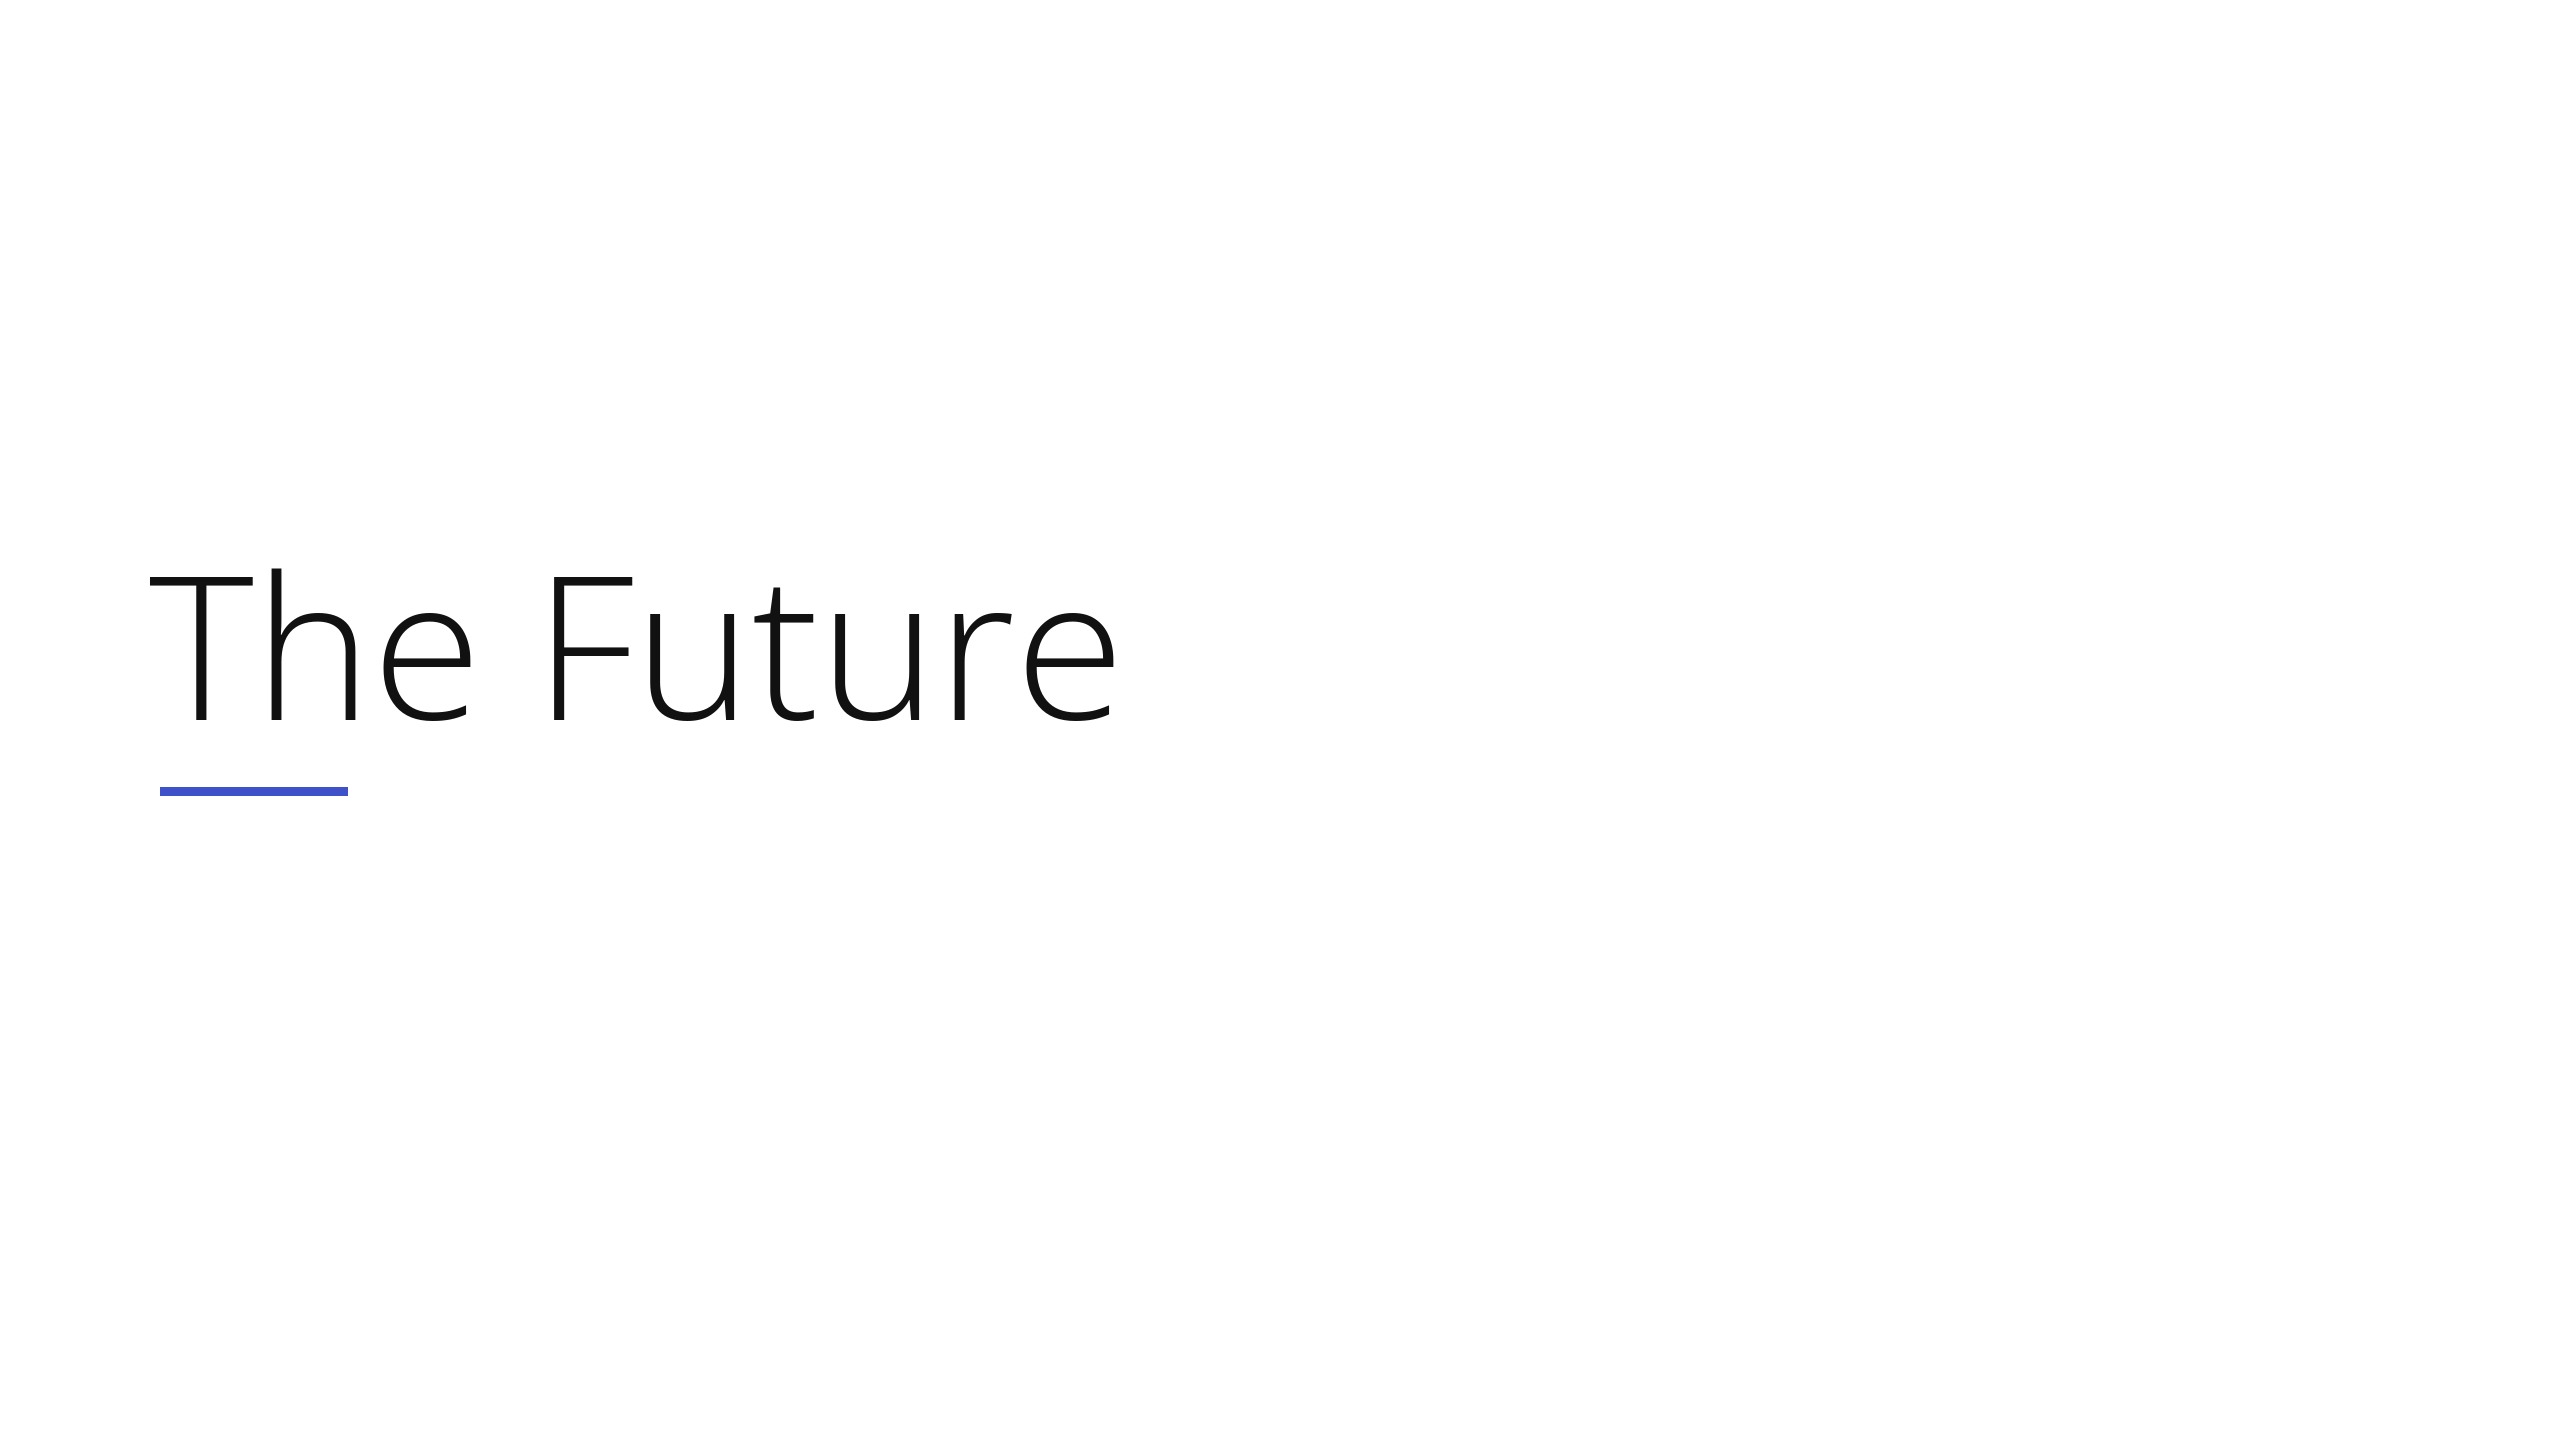
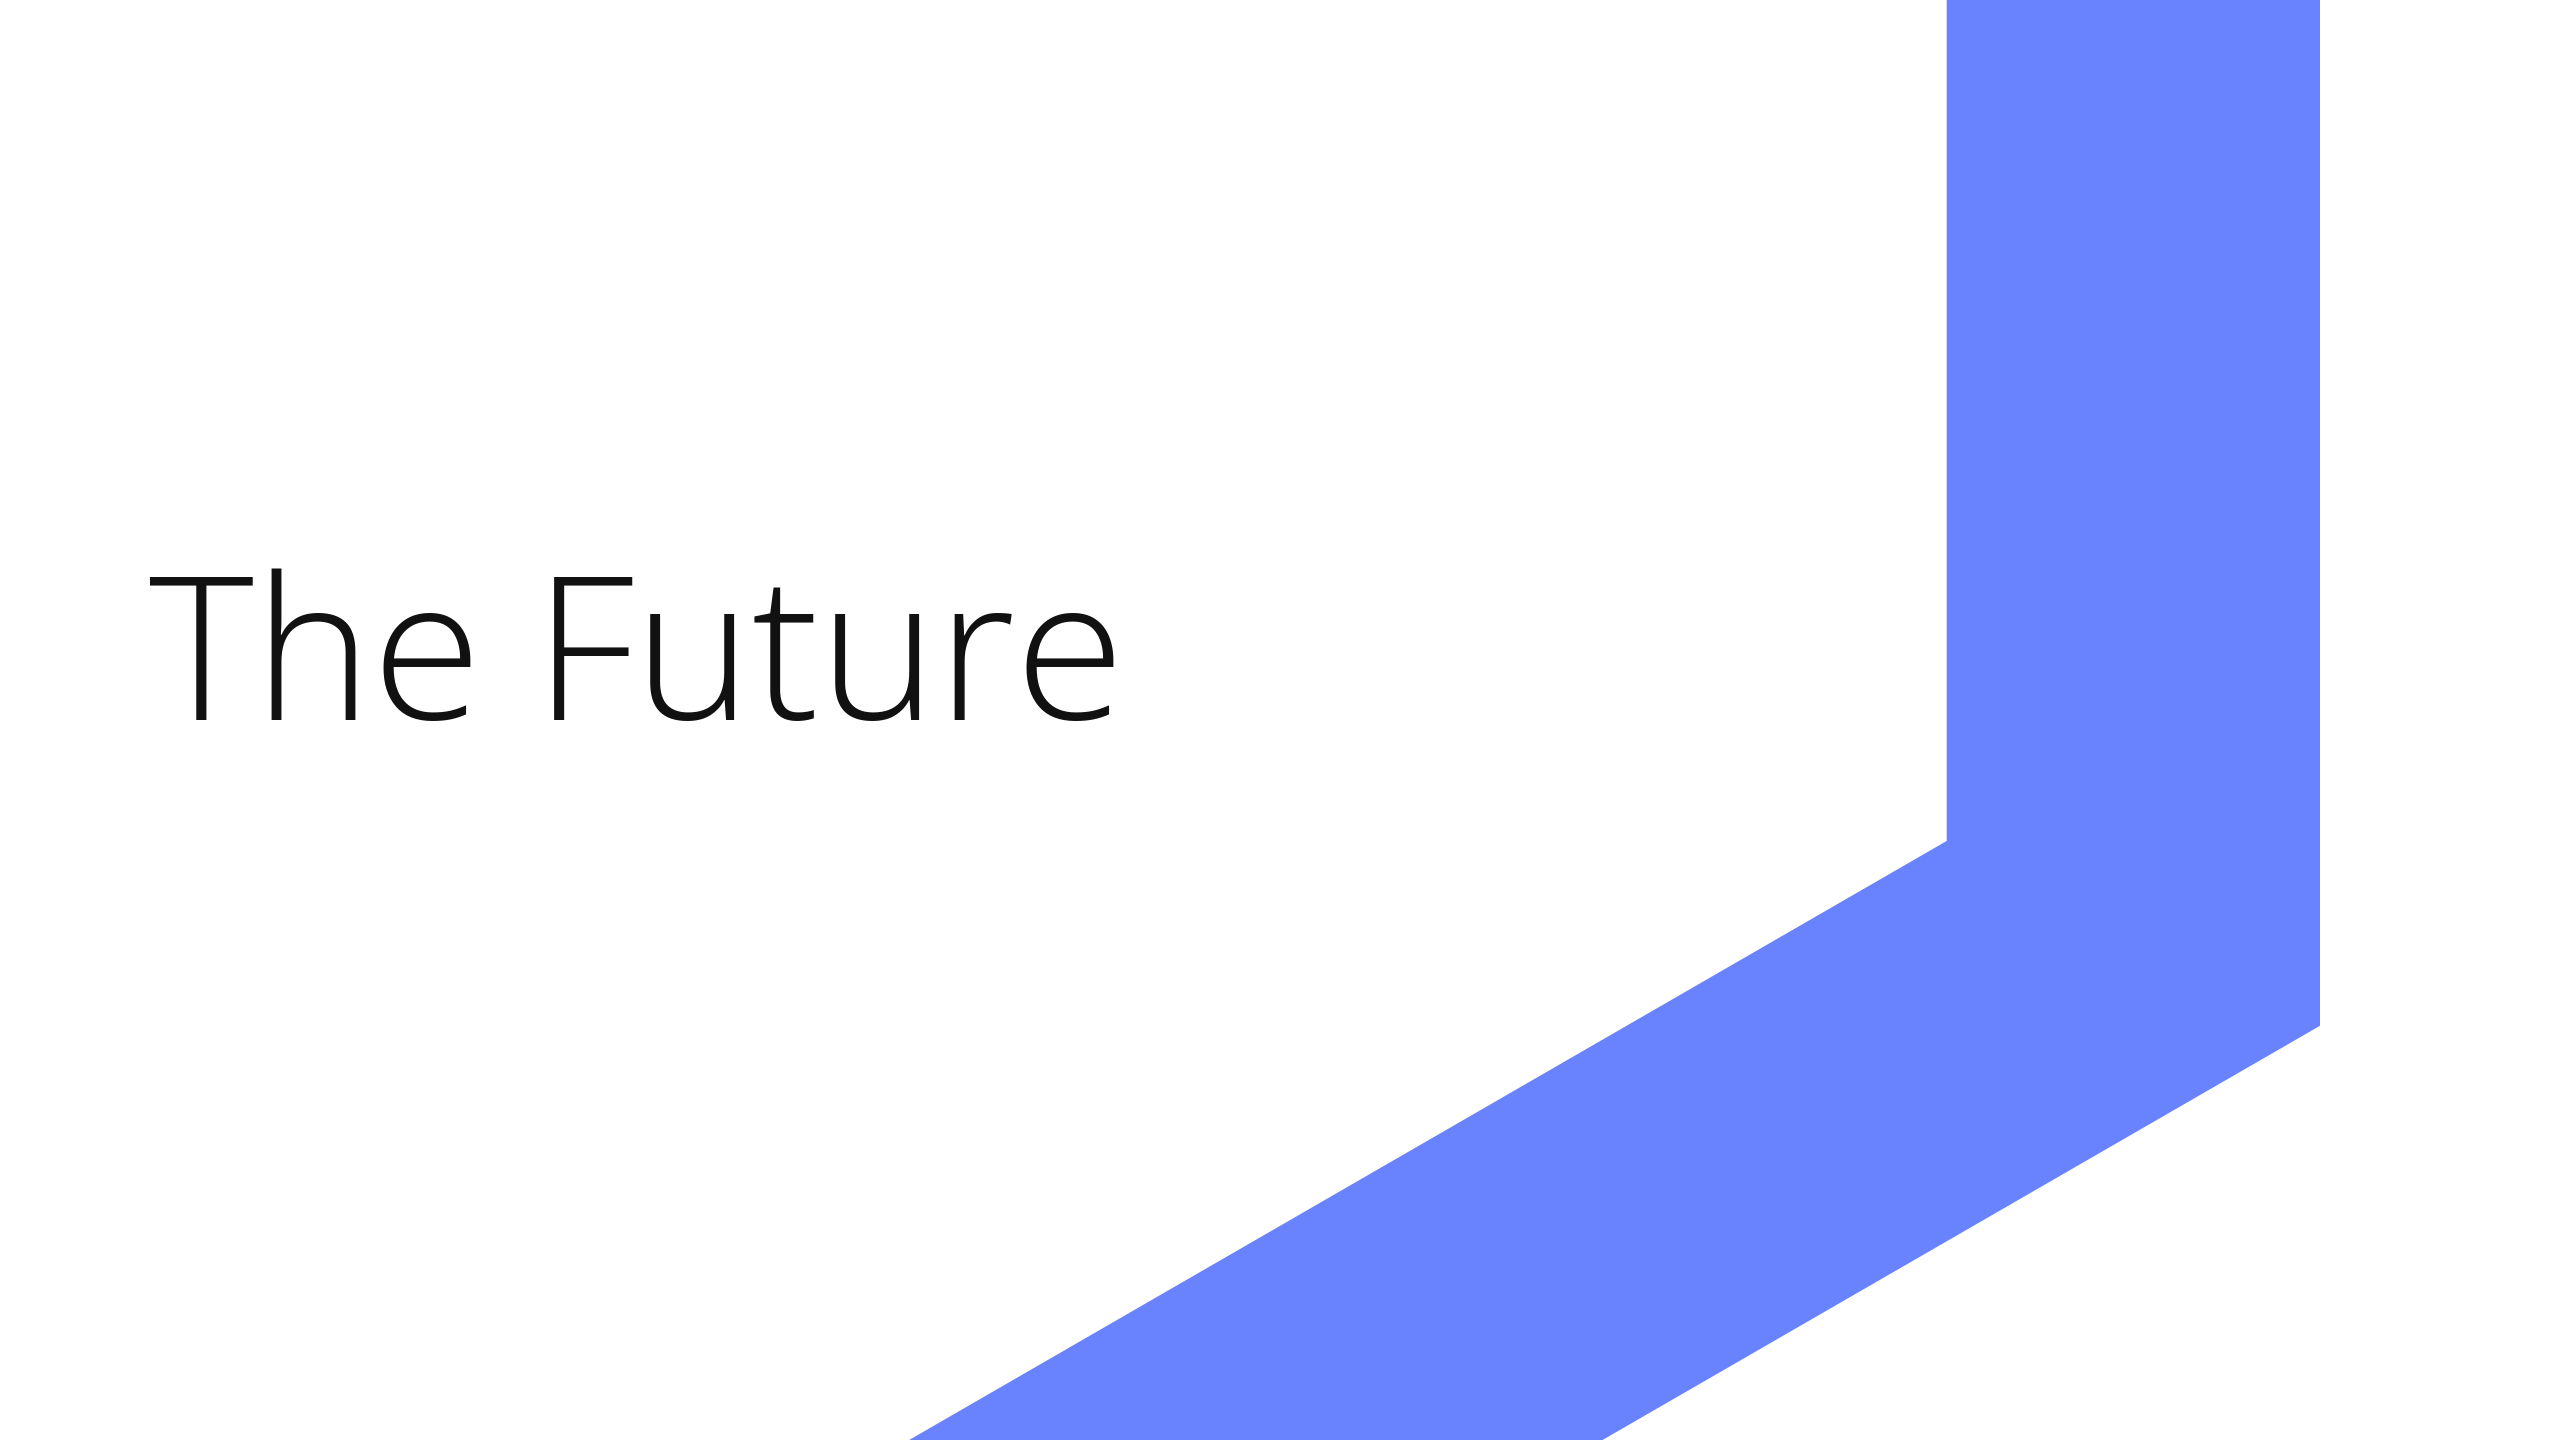
Section openers: the corner of a huge hexagon replaces the accent bar
Slides 4, 11, 15 and 21 now carry a close-up of the lower-right corner of a
hexagon in the Valkey mark's blue (#6983FF): a 30-degree limb rising from
below the slide into a vertical limb that leaves off the top, corner at
(1600, 700) of 1920x1080, vertical 280 px wide, diagonal 260 px. The limbs
differ on purpose: at equal widths the eye reads the slanted band as the
heavier one (Rain compared 280/280, 280/260 and 280/250 and chose 260). One
mitered polygon rasterised through cairosvg, so the edges are antialiased
like the figures. The small 140x6 accent bar is gone; the title clears the
mark by 130+ px on the longest title.

Cross-ownership: build_deck.py (Rimuru's) gets hex_corner() and the section
branch loses its rectangle. The engine-digest change re-rendered every
slide; PNGs whose only change was cross-host glyph antialiasing were
restored from HEAD, as before.

Changed region(s): [[0.3438, 0.0, 0.9062, 1.0], [0.0625, 0.5312, 0.125, 0.5625]]

diff --git a/build_deck.py b/build_deck.py
@@ -128,6 +128,32 @@ def rasterise(svg_path, width):
     return Image.open(io.BytesIO(cairosvg.svg2png(bytestring=svg.encode(), output_width=width))).convert('RGBA')
 
 
+LOGO_BLUE = '#6983FF'                      # the Valkey mark's blue (valkey.io/img/valkey-horizontal.svg), not the deck accent
+
+
+def hex_corner(im, cx=1600, cy=700, w_diag=260, w_vert=280, color=LOGO_BLUE):
+    """The section openers' mark: the lower-right corner of a hexagon so large that only the corner is on the
+    slide, an echo of the logo's outline. A 30-degree limb arrives from below the slide, a vertical limb leaves
+    off the top; one mitered polygon, so the limbs may differ in width (the diagonal is drawn 7% narrower than
+    the vertical: at equal widths the eye reads the slanted band as the heavier one). Design px (1920x1080)."""
+    import math, cairosvg
+    u1 = (math.cos(math.radians(30)), -math.sin(math.radians(30)))      # along the diagonal, towards the corner
+    n1 = (math.sin(math.radians(30)), math.cos(math.radians(30)))       # the diagonal's outward normal (down-right)
+
+    def edge(side):                                                       # +1 outer edge, -1 inner edge
+        px, py = cx + side * n1[0] * w_diag / 2, cy + side * n1[1] * w_diag / 2    # a point on the diagonal's edge
+        x = cx + side * w_vert / 2                                                   # the vertical's edge
+        miter = (x, py + (x - px) / u1[0] * u1[1])
+        far = (px - u1[0] * 1500, py - u1[1] * 1500)                                 # well below the slide
+        return far, miter
+    (fo, mo), (fi, mi) = edge(+1), edge(-1)
+    pts = [fo, mo, (mo[0], -300), (mi[0], -300), mi, fi]
+    svg = (f'<svg xmlns="http://www.w3.org/2000/svg" width="{W}" height="{H}" viewBox="0 0 1920 1080">'
+           f'<polygon points="{" ".join(f"{x:.1f},{y:.1f}" for x, y in pts)}" fill="{color}"/></svg>')
+    ov = Image.open(io.BytesIO(cairosvg.svg2png(bytestring=svg.encode(), output_width=W))).convert('RGBA')
+    im.paste(ov, (0, 0), ov)
+
+
 def ink_bbox(im, pad=12):
     """Bounding box of the ink (anything darker than near-white), plus a small margin; None for a blank image."""
     flat = Image.new('RGB', im.size, (255, 255, 255)); flat.paste(im, mask=im.split()[3])
@@ -201,9 +227,9 @@ def render(slide):
         d.line([(P(960), P(420)), (P(960), P(900))], fill=RULE, width=P(2))
         text(d, (120, 1010), slide['footnote'], font('Regular', 26), MUTED, 'ls')
     elif k == 'section':
+        hex_corner(im)                                          # the mark first, so the title paints over it if they ever meet
         if slide['eyebrow']: text(d, (120, 300), slide['eyebrow'].upper(), font('SemiBold', 22), MUTED, tracking=3)
         text(d, (112, 540), slide['word'], font('Light', 150), INK, 'ls')
-        d.rectangle([P(120), P(590), P(120 + 140), P(590 + 6)], fill=ACCENT)
         if slide['claim']: text(d, (120, 650), slide['claim'], font('SemiBold', 44), ACCENT)
         if slide['detail']: text(d, (120, 725), slide['detail'], font('Regular', 34), GREY)
     elif k == 'figure':

diff --git a/slides.py b/slides.py
@@ -9,7 +9,7 @@ why there is no 13 and why the chain sequence is 012a..012g; renaming them would
 
 Four kinds of slide:
   headline(id, ...)                 the two big numbers (slide 2)
-  section(id, eyebrow, word, claim, detail)   a section opener: one big word, the accent line, a claim
+  section(id, eyebrow, word, claim, detail)   a section opener: one big word beside the hexagon-corner mark; eyebrow, claim, detail optional (unused today)
   figure(id, svg, title=None, box=..., trim=False, animated=False)   a figure from figures/out/, with an optional title above it
   static(id, png)                   a finished PNG from assets/, used as is (the credits table)
 
